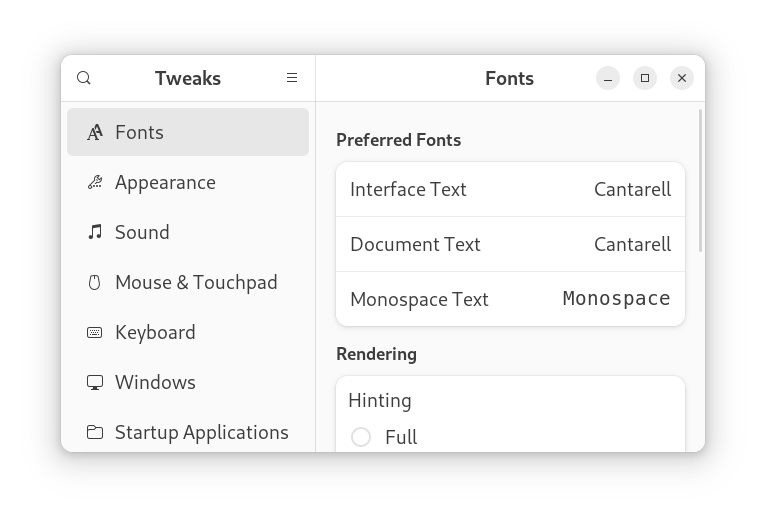
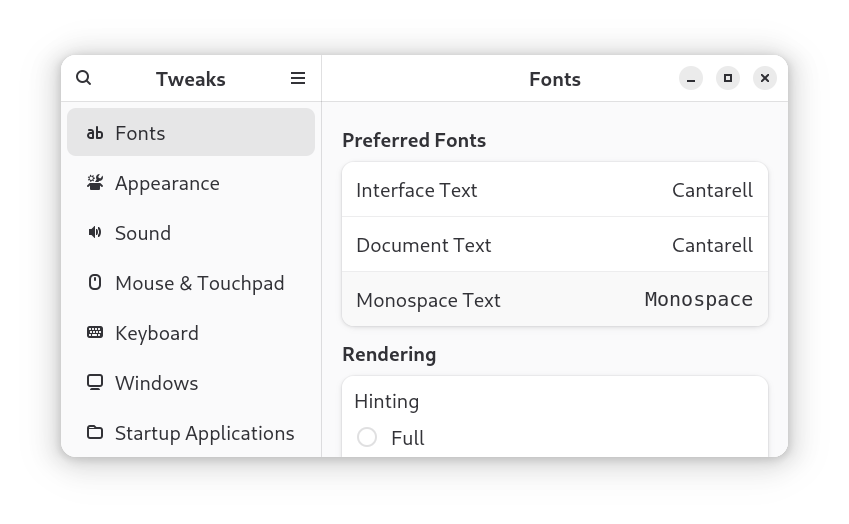
accent colour screenshot

diff --git a/README.md b/README.md
@@ -113,19 +113,9 @@ Again with GNOME based desktops colour should now be set at the system level usi
 
 With Ubuntu 24.04 accent colour can be changed by opening Ubuntu desktop "Settings" and using the "Appearance" tab. It is possible to choose from a variety of colours to customise the way the desktop looks and accent colours are applied to Talk Calendar as you would expect.
 
-With Debian 13 GNOME 48 (Wayland) the desktop "Settings" dialog can be used to change the accent colour. Unfortunately this has no effect on Talk Calendar. The calendar colours default to the standard system colours (blue/light blue). 
+With Debian 13 GNOME 48 (Wayland) the desktop "Settings" dialog can be used to change the accent colour. Unfortunately this has no effect on the current version of Talk Calendar. The calendar colours default to the Debian default colour scheme (dark blue/light blue). 
 
-With Xfce there is no system wide settings dialog to change accent colours. Instead the "Appearance" dialog has three style options by default. These are the Adwaita (Gtk3,GTk2) light style, the Adwaita-Dark (Gtk3,Gtk2) dark style and the High Contrast (Gtk3,Gtk2) style. All of these styles work with Talk Calendar. Testing Talk Calendar with [Xfce4 and Wayland](https://github.com/crispinprojects/xfce4-wayland) using Debian 13 shows that the standard system colours (blue) are used again. The currently selected day colour is shown as dark blue. Event days are shown as light blue. See the screenshots by following the Xfce4 and Wayland link above.
-
-## Update On Accent Colours (libadwaita)
-
-With the latest changes it appears that only applications built with libadwaita (the default Adwaita theme for GNOME based desktops) respect system-wide accent colours. The libadwaita library is built on top of GTK4 and provides widgets that adhere to the [GNOME Human Interface Guidelines HIG](https://developer.gnome.org/hig/). It is used by GNOME developers to ensure that applications look and behave consistently with the GNOME desktop environment. The separation between GTK (the core toolkit) and libadwaita (the GNOME design language implementation) appears to be a deliberate strategy to allow other desktop environments (Xfce, Cinnamon, MATE, Pantheon) to use GTK and apply their own themes. 
-
-Talk Calendar is a GTK4 only application and not a libadwaita application and so it is not GNOME HIG compliant. Because Talk Calendar is a GTK4 app accent colours are not supported with Debian 13 GNOME. I developed a small libadwaita Calendar test project and accent colours worked on Debian 13 but the application would not run on a default [Xfce4 Wayland](https://github.com/crispinprojects/xfce4-wayland) install.  Consequently, I am in a dilemma as to whether I should rewrite Talk Calendar as a libadwaita application. This would mean that it would only run on GNOME desktops. 
-
-Currently Talk Calendar is a GTK4 application and runs on GTK desktop environments other than GNOME such as Xfce. This is because GTK4 can be used to write Xfce applications and run them. The issue is that Xfce and other GTK desktops have not officially adopted GNOME's libadwaita as they maintain their own themes and ecosystem. The other option is to resurrect my custom calendar widget which allows colours to be changed using CSS classes inside the application. 
- 
-It appears that GTK5 will continue to be a general-purpose toolkit but likely to be Wayland only with web technologies used for styling. Assuming GTK5 remains a general toolkit other desktop environments such as Xfce, Cinnamon, MATE, Pantheon will be able to use it to develop Wayland applications and apply their own themes and design. However, as GNOME drives changes in GTK that align with its GNOME HIG (libadwaita), the more difficult it may become for other desktop environments to use GTK applications without adopting libadwaita. Also it is likely that only GTK4 applications will support either X11 or Wayland which is another factor to consider.
+With Xfce there is no system wide settings dialog to change accent colours. Instead the "Appearance" dialog has three style options by default. These are the Adwaita (Gtk3,GTk2) light style, the Adwaita-Dark (Gtk3,Gtk2) dark style and the High Contrast (Gtk3,Gtk2) style. All of these styles work with Talk Calendar. Testing Talk Calendar with [Xfce4 and Wayland](https://github.com/crispinprojects/xfce4-wayland) using Debian 13 shows that the Debian default colour scheme (dark blue/light blue) are used again. The currently selected day colour is shown as dark blue. Event days are shown as light blue. 
 
 ### Icons
 
@@ -134,11 +124,34 @@ I had started to use button widgets created using icon names with code such as t
 button_edit_event= gtk_button_new_from_icon_name("document-edit-symbolic");
 ```	
 
-I had assumed that there would be consistency across desktops and distributions now using libadwaita. Unfortunately, when testing Talk Calendar with the Ubuntu Desktop, the Debian 13 GNOME 48 (Wayland) desktop and Xfce different icons where used and some not found. Consequently, Talk Calendar 0.4.8 has reverted back to creating buttons with names.
+I had assumed that there would be consistency across desktops and distributions. Unfortunately, when testing Talk Calendar with the Ubuntu Desktop, the Debian 13 GNOME 48 (Wayland) desktop and Debian Xfce4 (Wayland) different icons where used and some not found. Consequently, Talk Calendar has reverted back to creating buttons with names.
 
 ```
 button_edit_event = gtk_button_new_with_label("Edit");
 ```
+
+## GTK4 vs libadwaita
+
+With the latest GTK/GNOME changes it appears that only applications built with libadwaita (the default Adwaita theme for GNOME based desktops) respect system-wide accent colours. The libadwaita library is built on top of GTK4 and provides widgets that adhere to the [GNOME Human Interface Guidelines HIG](https://developer.gnome.org/hig/). It is used by GNOME developers to ensure that applications look and behave consistently with the GNOME desktop environment. The separation between GTK (the core toolkit) and libadwaita (the GNOME design language implementation) appears to be a deliberate strategy to allow other desktop environments (Xfce, Cinnamon, MATE) to use GTK and apply their own themes. 
+
+Talk Calendar is a GTK4 only application and is not a libadwaita application. The means that it is not GNOME HIG compliant and so accent colours are not supported with Debian 13 GNOME. I have developed a small libadwaita Calendar demo as shown in the screenshot below and accent colours are supported on Debian 13 GNOME. 
+
+![](debian13-accent-colour.png)
+
+However, the application would not run on a default [Xfce4 Wayland](https://github.com/crispinprojects/xfce4-wayland) desktop unless libadwaita is installed (see below). 
+
+```
+sudo apt update
+sudo apt install libadwaita-1-dev
+```
+
+
+Even when I got the demo to run on Xfce only the Debian default system colours (dark blue/light blue) were displayed just like in the current GTK4 Talk Calendar case. Because the GTK4 runtime is installed by default in Debian the Talk Calendar binary (and any other GTK4 application) can be run without installing any theme library such as libadwaita.
+
+Consequently, I am in a dilemma as to whether I should rewrite Talk Calendar as a libadwaita application. It would run on GNOME desktops. However, even if users of other GTK desktops install libadwaita to run the calendar it would not benefit from accent colours because Xfce and other desktops have not officially adopted the GNOME HIG as they maintain their own themes and ecosystem. The other option is to resurrect my custom calendar widget which used "in-app" preferences to allow colours to be changed.
+ 
+It appears that GTK5 will continue to be a general-purpose toolkit but likely to be Wayland only with web technologies used for styling. Assuming GTK5 remains a general toolkit other desktop environments such as Xfce, Cinnamon, MATE etc. will be able to use it to develop Wayland applications and apply their own themes and design. However, as GNOME drives changes in GTK that align with its GNOME HIG (libadwaita), the more difficult it may become for other desktop environments to use GTK applications without adopting libadwaita. 
+
 
 ## Speech Synthesis
 
